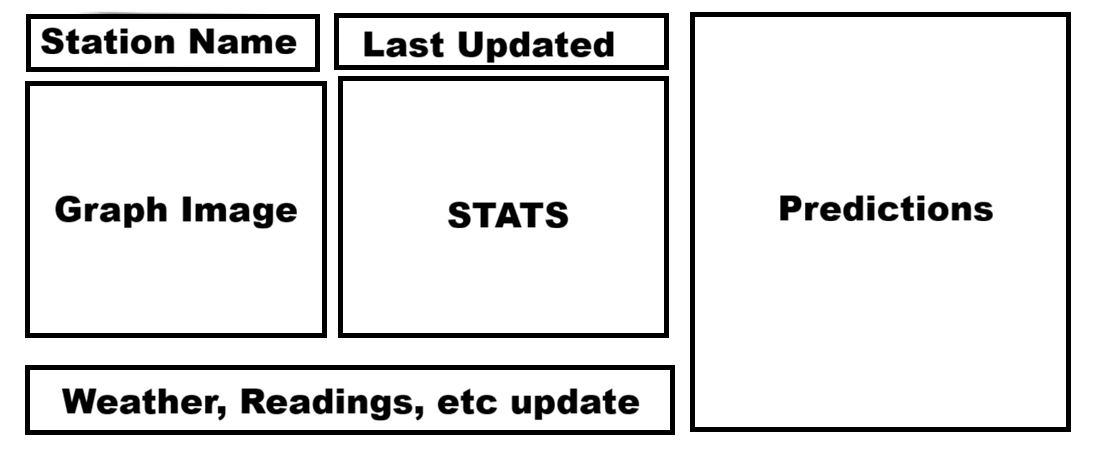
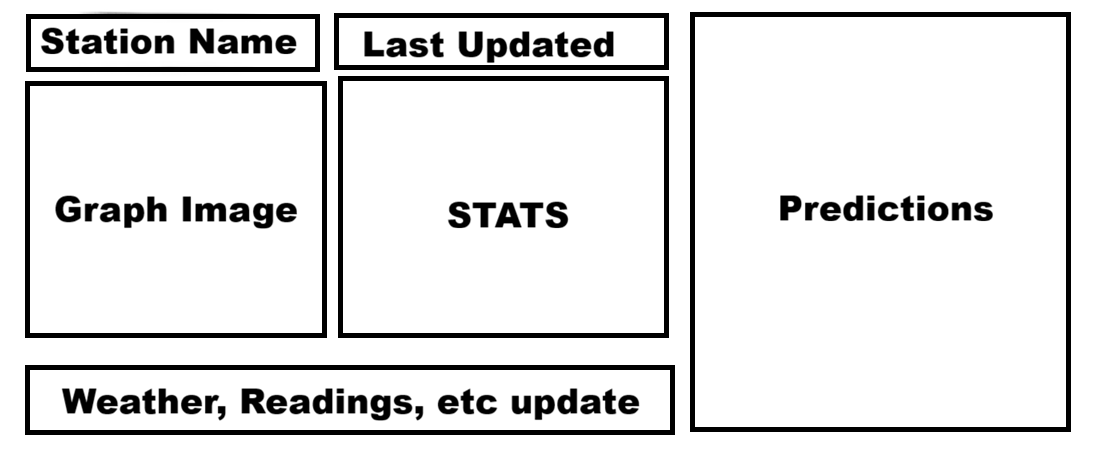
commit

diff --git a/resources/js/UserStation.jsx b/resources/js/UserStation.jsx
@@ -24,9 +24,9 @@ function Station({stationId}){
     useEffect(() => {
         async function getStation(stationId) {
             const response = await fetch('http://gracian.ca/laravel/public/api/stations?stationId='+String(stationId));
-            const data = await response.json()[0];
+            const data = await response.json();
             console.log(data);
-            setStation(data);
+            setStation(data[0]);
         }
         getStation(stationId);
     },[stationId]);